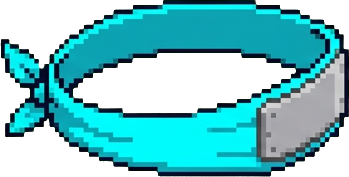
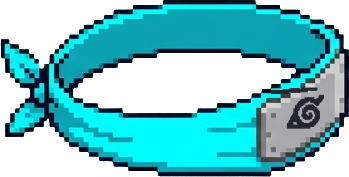
Custom fighter: posable arms, livelier body, sheathed katana, leaf headband
Arms are cut from each torso along the armpit gap (CustomArms) instead of
fixed rectangles that sliced the chest, and posed in two segments
(shoulder and elbow): a straight punch with the other fist on guard,
forearms raised to block, arms swinging while walking and swept back in
the dash. The back arm stays behind the body unless striking or guarding.
Idle breathes, walking takes a longer stride.

The katana is worn sheathed (new Figma art): scabbard behind the legs, hilt
over the belt; it is drawn only to strike and to guard. The headband plate
gets the leaf symbol back, the scarf ends are smaller, the scouter is
smaller, and the default accessory colour is red instead of the default
gi orange.

Claude-Session: https://claude.ai/code/session_01CQ57skbFi4YN6mTgDad7BN

Changed region(s): [[0.7736, 0.4802, 0.9456, 0.7345]]

diff --git a/game/sprites/CustomArt.ts b/game/sprites/CustomArt.ts
@@ -2,8 +2,9 @@
 import type Phaser from 'phaser';
 import type { CharacterData } from '../types';
 import { buildCustomPortrait } from './CustomPortrait';
-import { ACCESSORY_TAILS, CUSTOM_DASH_FRAMES, CUSTOM_FRAME, headbandRect, RING, SCARF_TAIL_SWING, scarfCollarRect, tailState } from './CustomArtLayout';
+import { ACCESSORY_TAILS, CUSTOM_DASH_FRAMES, CUSTOM_FRAME, headbandRect, RING, SCARF_TAIL_SWING, scarfCollarRect, SHEATH_GUARD, tailState } from './CustomArtLayout';
 import { genkiTorsoRect } from './GenkiTorsoLayout';
+import { BACK_ARM, BODY, FRONT_ARM, splitArms } from './CustomArms';
 import { GI_SEAM, trouserClothBottom, fittedFootwear } from './CustomSeams';
 
 const urls = import.meta.glob<string>('../assets/custom/*.png', { eager: true, query: '?url', import: 'default' });
@@ -186,6 +187,7 @@ export function composeCustomArt(scene: Phaser.Scene, texture: string, data: Non
   const accessory = accessoryId === 'none' ? null : tint(scene, 'accessory-' + accessoryId,
     accessoryId === 'cape' || accessoryId === 'scarf' ? { primary: data.color_acc_1 ?? data.gi2 } :
     accessoryId === 'headband' ? { secondary: data.color_acc_1 ?? data.gi2 } : {});
+  const sheath = accessoryId === 'sword' ? tint(scene, 'accessory-sword_sheathed', {}) : null;
   const tailsId = accessoryId === 'scarf' || accessoryId === 'headband' ? accessoryId : null;
   const tails = tailsId ? tint(scene, 'accessory-' + tailsId + '_tails',
     tailsId === 'scarf' ? { primary: data.color_acc_1 ?? data.gi2 } : { secondary: data.color_acc_1 ?? data.gi2 }) : null;
@@ -219,6 +221,19 @@ export function composeCustomArt(scene: Phaser.Scene, texture: string, data: Non
   const neckX=79+(neckWeight?neckSum/neckWeight:torso.width/2)/torso.width*36;
   const portrait = buildCustomPortrait(data,texture,(name,palette)=>tint(scene,name,palette),resolution,neckX);
   const draw = (img: HTMLCanvasElement, x: number, y: number, w: number, h: number) => ctx.drawImage(img, Math.round(x), Math.round(y), w, h);
+  // Posable arms cut along the armpit (null: keep the rectangular fallback).
+  const rig = (() => {
+    const data = torso.getContext('2d')!.getImageData(0, 0, torso.width, torso.height);
+    const split = splitArms(data.data, torso.width, torso.height);
+    if (!split) return null;
+    const layer = (mask: number) => {
+      const c = document.createElement('canvas'); c.width = torso.width; c.height = torso.height;
+      const out = new ImageData(torso.width, torso.height);
+      for (let i = 0; i < split.owner.length; i++) if (split.owner[i] & mask) for (let k = 0; k < 4; k++) out.data[i * 4 + k] = data.data[i * 4 + k];
+      c.getContext('2d')!.putImageData(out, 0, 0); return c;
+    };
+    return { ...split, body: layer(BODY), arms: [layer(BACK_ARM), layer(FRONT_ARM)] };
+  })();
   for (let f = 0; f < CUSTOM_FRAME.count; f++) {
     ctx.save(); ctx.translate(f % 4 * 192, Math.floor(f / 4) * 128);
     const walk = f >= 4 && f <= 7;
@@ -226,8 +241,11 @@ export function composeCustomArt(scene: Phaser.Scene, texture: string, data: Non
     const phase = walk ? [0,1,0,-1][f-4] : dash ? [1,-1,1][f-CUSTOM_DASH_FRAMES[0]] : 0;
     const punch = f === 8, kick = f === 9, defend = f === 10, charge = f === 11;
     const genki=f===12;
-    const bob = walk ? Math.abs(phase) : 0;
-    const headBob = f < 4 ? 0 : bob;
+    // Idle breathes: chest and head rise together, the feet stay planted.
+    const breath = f < 4 ? [0,.5,1,.5][f] : 0;
+    const legBob = walk ? Math.abs(phase) : 0;
+    const bob = legBob + breath;
+    const headBob = f < 4 ? breath : bob;
     const lean = punch ? 3 : kick ? -2 : defend ? -2 : dash ? 4 : 0;
     // The dash leans the whole body forward over the feet.
     if (dash) { ctx.translate(97, 126); ctx.rotate(.12); ctx.translate(-97, -126); }
@@ -268,40 +286,35 @@ export function composeCustomArt(scene: Phaser.Scene, texture: string, data: Non
         ctx.restore();
       }
     };
-    const drawSword=()=>{
-      if(!accessory || accessoryId!=='sword' || genki)return;
-      const armAngle=charge?-.18:defend?2.25:punch?-1.55:0;
-      const handX=106+lean+Math.cos(armAngle)*6-Math.sin(armAngle)*22;
-      const handY=77+bob+Math.sin(armAngle)*6+Math.cos(armAngle)*22;
+    // Katana: sheathed at the hip; drawn only to strike and to guard. The scabbard
+    // is worn behind the body, the hilt rests forward over the belt.
+    const swordDrawn = punch || defend;
+    const drawSheath=(part:'scabbard'|'hilt')=>{
+      if(!sheath || genki || (part==='hilt' && swordDrawn))return;
+      const w=46,h=w*sheath.height/sheath.width,gx=w*SHEATH_GUARD;
+      ctx.save();ctx.translate(101+lean,93+bob);ctx.rotate(-.4);
+      ctx.beginPath();
+      if(part==='scabbard')ctx.rect(-gx-1,-h,gx+1,h*2);else ctx.rect(-1.5,-h,w-gx+2,h*2);
+      ctx.clip();ctx.drawImage(sheath,-gx,-h/2,w,h);ctx.restore();
+    };
+    const drawSword=(fist:readonly [number,number],angle:number)=>{
+      if(!accessory || accessoryId!=='sword' || !swordDrawn)return;
       const swordWidth=43;
       const swordHeight=swordWidth*accessory.height/accessory.width;
-      // Anchor the image at the part of the handle the palm actually covers;
-      // the old 15% point left the guard and blade visibly past the fist.
+      // Anchor the image at the part of the handle the palm actually covers.
       const gripX=swordWidth*(70/accessory.width),gripY=swordHeight*.5;
-      // The blade follows the arm, not the forearm's rotation: a punch thrusts it
-      // forward and the guard raises it beside the head instead of across the face.
-      // At rest the katana is held in a ready guard, pointing up and forward
-      // instead of lying flat across the legs.
-      const bladeAngle=punch?0:defend?-1.9:-.6;
-      ctx.save();ctx.translate(handX,handY);ctx.rotate(bladeAngle);
+      ctx.save();ctx.translate(fist[0],fist[1]);ctx.rotate(angle);
       ctx.drawImage(accessory,-gripX,-gripY,swordWidth,swordHeight);
       ctx.restore();
     };
-    const drawSwordHand=()=>{
-      if(!accessory || accessoryId!=='sword' || genki)return;
-      // Idle frames use the full painted torso, so restore the wrist and palm
-      // over the katana to make the grip read as part of the hand.
-      const sx=torso.width*.78,sy=torso.height*.82;
-      const sw=torso.width-sx,sh=torso.height-sy;
-      ctx.drawImage(torso,sx,sy,sw,sh,79+sx/tw*36,66+sy/th*36,sw/tw*36,sh/th*36);
-    };
+    drawSheath('scabbard');
     // Legs and footwear share hip pivots, so walking and kicking cannot leave detached boots.
     for (let side = 0; side < 2; side++) {
       ctx.save();
       const pivotX = side === 0 ? 91 : 102;
       const waistShift=torsoId==='goku'?1.5:0;
-      ctx.translate(pivotX+waistShift+lean, hipY+bob);
-      ctx.rotate(side === 1 && kick ? -1.2 : phase * (side ? -0.14 : 0.14));
+      ctx.translate(pivotX+waistShift+lean, hipY+legBob);
+      ctx.rotate(side === 1 && kick ? -1.2 : phase * (dash ? .42 : .3) * (side ? -1 : 1));
       const sx = side * legs.width / 2;
       // Keep the full trouser width, but tuck its hem inside the boot shaft.
       const legW=giTrousers&&torsoId==='goku'?18:17,legX=97+(side-1)*legW;
@@ -333,34 +346,70 @@ export function composeCustomArt(scene: Phaser.Scene, texture: string, data: Non
         rect.x+lean,rect.y+bob,rect.width,rect.height*sourceBottom/raisedTorso.height);
       drawHead();
       drawScarf();
-    } else if(!punch && !defend && !charge) {
+    } else if(!punch && !defend && !charge && !walk && !dash) {
       // Keep shoulders, arms and belt joined in relaxed poses; preserve source proportions.
       draw(torso,79+lean,66+bob,36,36);
-      drawSword();
+      drawSheath('hilt');
       drawHead();
       drawScarf();
-      drawSwordHand();
     } else {
-    // Keep the neck/collar and shoulder bridge intact while the lower arms rotate.
+    // Two-segment arms (shoulder and elbow). Angles turn each segment from its
+    // painted rest pose: 0 hangs down, negative swings forward.
+    // [front upper, front forearm, back upper, back forearm]
+    const arms = punch ? [-1.5,-1.58,.35,-1.0] : defend ? [-.8,-2.75,-.6,-2.6]
+      : charge ? [-.25,-.1,.25,.1] : dash ? [.45,.75,.6,.9]
+      : [-.35*phase,-.35*phase-.25,.35*phase,.35*phase-.25];
+    let fist:readonly [number,number]=[0,0];
+    if (rig) {
+      const kx=36/tw, ky=36/th, ox=79+lean, oy=66+bob;
+      const at=(p:readonly number[])=>[ox+p[0]*kx, oy+p[1]*ky] as const;
+      const turn=(p:readonly number[],c:readonly number[],a:number)=>[c[0]+(p[0]-c[0])*Math.cos(a)-(p[1]-c[1])*Math.sin(a), c[1]+(p[0]-c[0])*Math.sin(a)+(p[1]-c[1])*Math.cos(a)] as const;
+      const drawArm=(side:number)=>{
+        const upper=arms[side?0:2], fore=arms[side?1:3], img=rig.arms[side];
+        const S=at(rig.shoulder[side]), E0=at(rig.elbow[side]), H0=at(rig.hand[side]), E1=turn(E0,S,upper);
+        const row=rig.elbowRow[side];
+        // Upper arm: rows above the elbow, turned about the shoulder.
+        ctx.save();ctx.translate(S[0],S[1]);ctx.rotate(upper);ctx.translate(-S[0],-S[1]);
+        ctx.drawImage(img,0,0,tw,row+2,ox,oy,36,(row+2)*ky);ctx.restore();
+        // Forearm: rows below it, turned about the moved elbow.
+        ctx.save();ctx.translate(E1[0],E1[1]);ctx.rotate(fore);ctx.translate(-E0[0],-E0[1]);
+        ctx.drawImage(img,0,row-2,tw,th-row+2,ox,oy+(row-2)*ky,36,(th-row+2)*ky);ctx.restore();
+        if(side){const H=turn(H0,E0,fore);fist=[H[0]+E1[0]-E0[0],H[1]+E1[1]-E0[1]];}
+      };
+      // The back arm passes behind the body unless it is raised to strike or guard.
+      const backInFront = punch || defend;
+      if(!backInFront)drawArm(0);
+      draw(rig.body,ox,oy,36,36);
+      drawSheath('hilt');
+      drawHead();
+      drawScarf();
+      if(backInFront)drawArm(0);
+      drawArm(1);
+    } else {
+    // Fallback for torsos whose arms cannot be separated: rectangular arm crops.
     ctx.drawImage(torso, 0, 0, tw, th*.30, 79+lean,66+bob,36,11);
     ctx.drawImage(torso, tw*.25, th*.30, tw*.5, th*.70, 88+lean,77+bob,18,25);
+    drawSheath('hilt');
     drawHead();
     drawScarf();
-    drawSword();
-    for (let side=0;side<2;side++) {
-      const x = side ? 106 : 87;
-      ctx.save(); ctx.translate(x + lean, 76 + bob);
-      ctx.rotate(charge ? (side ? -.18 : .18) : defend ? (side ? 2.25 : -2.25) : punch && side ? -1.55 : phase*(side ? 0.1 : -0.1));
-      // Discard the inner coat hem caught by the rectangular arm crop.
-      ctx.beginPath();
-      const armLeft=side?0:-9,armHeight=27;
-      const armPoint=(x:number,y:number)=>[armLeft+(side?x:9-x),y] as const;
-      ctx.moveTo(...armPoint(0,-1));
-      for(const point of [[9,-1],[9,armHeight],[0,armHeight],[0,armHeight-3],[2.5,armHeight-7],[2.5,12],[0,6]])ctx.lineTo(...armPoint(point[0],point[1]));
-      ctx.closePath();ctx.clip();
-      ctx.drawImage(torso, side ? tw*.75 : 0, th*.25, tw*.25, th*.75, side ? 0 : -9, -1, 9, 27);
-      ctx.restore();
+    const ELBOW=13, ARM_W=9, ARM_H=27;
+    for (const side of [0,1]) {
+      const upper=arms[side?0:2], fore=arms[side?1:3];
+      const sx=(side ? 106 : 87)+lean, sy=76+bob, left=side?0:-ARM_W, cx=left+ARM_W/2;
+      const ex=sx+Math.cos(upper)*cx-Math.sin(upper)*ELBOW, ey=sy+Math.sin(upper)*cx+Math.cos(upper)*ELBOW;
+      const segment=(x:number,y:number,angle:number,pivotX:number,from:number,to:number)=>{
+        ctx.save();ctx.translate(x,y);ctx.rotate(angle);
+        ctx.beginPath();ctx.rect(left-pivotX-1,from?-1.5:-1,ARM_W+2,to-from+1.5);ctx.clip();
+        ctx.drawImage(torso, side ? tw*.75 : 0, th*.25, tw*.25, th*.75, left-pivotX, -1-from, ARM_W, ARM_H);
+        ctx.restore();
+      };
+      segment(sx,sy,upper,0,0,ELBOW+1.5);
+      segment(ex,ey,fore,cx,ELBOW-1.5,ARM_H);
+      if(side){const r=ARM_H-ELBOW-3;fist=[ex-Math.sin(fore)*r,ey+Math.cos(fore)*r];}
     }
+    }
+    // A thrust follows the forearm; the guard raises the blade beside the head.
+    drawSword(fist, punch ? arms[1]+Math.PI/2 : -1.75);
     }
     ctx.restore();
   }

diff --git a/game/sprites/CustomArms.ts b/game/sprites/CustomArms.ts
@@ -1,0 +1,88 @@
+/** Separate the painted arms from a custom torso so they can be posed.
+ *
+ * Each arm is split from the body along the transparent gap under the armpit,
+ * row by row, instead of a fixed rectangle: rectangles cut through the chest
+ * and sleeves. Above the armpit the shoulder stays in BOTH layers, so a raised
+ * or swung arm never leaves a hole or a square shoulder in the body.
+ */
+export const BODY = 4, BACK_ARM = 1, FRONT_ARM = 2;
+
+export interface ArmRig {
+  /** Per pixel bit mask: BODY, BACK_ARM, FRONT_ARM (a shoulder belongs to the body and an arm). */
+  owner: Uint8Array;
+  /** Shoulder pivot, elbow and hand centre, in torso pixels; [back, front]. */
+  shoulder: [number, number][]; elbow: [number, number][]; hand: [number, number][];
+  /** First row (in torso pixels) that belongs to each forearm. */
+  elbowRow: number[];
+}
+
+export function splitArms(pixels: Uint8ClampedArray, width: number, height: number, alphaMin = 100): ArmRig | null {
+  const opaque = (x: number, y: number) => pixels[(y * width + x) * 4 + 3] > alphaMin;
+  const cut = [new Float64Array(height).fill(NaN), new Float64Array(height).fill(NaN)];
+  for (let y = 0; y < height; y++) {
+    const runs: [number, number][] = [];
+    for (let x = 0; x < width; x++) {
+      if (!opaque(x, y)) continue;
+      const start = x; while (x + 1 < width && opaque(x + 1, y)) x++;
+      // Tiny gaps are antialiasing inside one shape, not the armpit.
+      const last = runs[runs.length - 1];
+      if (last && start - last[1] <= 2) last[1] = x; else runs.push([start, x]);
+    }
+    // An armpit is never in the top third: a gap there is a collar or a cape.
+    if (runs.length < 2 || y < height * .3) continue;
+    if (runs[0][1] < width * .45) cut[0][y] = (runs[0][1] + runs[1][0]) / 2;
+    const a = runs[runs.length - 2], b = runs[runs.length - 1];
+    if (b[0] > width * .55) cut[1][y] = (a[1] + b[0]) / 2;
+  }
+  const owner = new Uint8Array(width * height);
+  for (let i = 0; i < owner.length; i++) if (pixels[i * 4 + 3] > alphaMin) owner[i] = BODY;
+  const rig: ArmRig = { owner, shoulder: [], elbow: [], hand: [], elbowRow: [] };
+  for (const side of [0, 1]) {
+    const c = cut[side], rows: number[] = [];
+    for (let y = 0; y < height; y++) if (!Number.isNaN(c[y])) rows.push(y);
+    if (rows.length < height * .15) return null;
+    const first = rows[0], last = rows[rows.length - 1];
+    // Fill short interruptions (fist touching the hip, sleeve folds) linearly.
+    let prev = first;
+    for (const y of rows) { for (let k = prev + 1; k < y; k++) c[k] = c[prev] + (c[y] - c[prev]) * (k - prev) / (y - prev); prev = y; }
+    // The shoulder joint sits a little above the armpit, never at the collar.
+    const top = Math.round(Math.min(Math.max(first - height * .22, height * .12), height * .3));
+    for (let y = top; y < height; y++) {
+      const edge = y < first ? c[first] : y > last ? c[last] : c[y];
+      for (let x = 0; x < width; x++) {
+        if (!opaque(x, y) || (side ? x <= edge : x >= edge)) continue;
+        const i = y * width + x;
+        owner[i] = (y < first ? BODY : 0) | (side ? FRONT_ARM : BACK_ARM);
+      }
+    }
+    // Joints from the arm's own pixels.
+    const centre = (y0: number, y1: number): [number, number] => {
+      let sx = 0, sy = 0, n = 0;
+      for (let y = Math.max(0, y0); y <= Math.min(height - 1, y1); y++) {
+        const edge = y < first ? c[first] : y > last ? c[last] : c[y];
+        for (let x = 0; x < width; x++) if (opaque(x, y) && (side ? x > edge : x < edge)) { sx += x; sy += y; n++; }
+      }
+      return n ? [sx / n, sy / n] : [side ? width * .85 : width * .15, (y0 + y1) / 2];
+    };
+    let bottom = top;
+    for (let y = height - 1; y >= top; y--) {
+      const edge = y > last ? c[last] : c[Math.max(y, first)];
+      let found = false;
+      for (let x = 0; x < width; x++) if (opaque(x, y) && (side ? x > edge : x < edge)) { found = true; break; }
+      if (found) { bottom = y; break; }
+    }
+    const shoulderY = top + height * .06, span = bottom - shoulderY;
+    const elbowRow = Math.round(shoulderY + span * .47);
+    rig.shoulder[side] = [centre(top, top + Math.round(height * .1))[0], shoulderY];
+    rig.elbow[side] = [centre(elbowRow - 2, elbowRow + 2)[0], elbowRow];
+    rig.hand[side] = centre(bottom - Math.round(span * .12), bottom);
+    rig.elbowRow[side] = elbowRow;
+    // A cape or a coat hiding the arm leaves only a hand: not a usable arm.
+    if (span < height * .45) return null;
+  }
+  // A cape hiding one arm (Saitama) leaves a sliver: keep the painted pose then.
+  const count = [0, 0];
+  for (const o of owner) { if (o & BACK_ARM) count[0]++; if (o & FRONT_ARM) count[1]++; }
+  if (Math.min(...count) < Math.max(...count) * .5) return null;
+  return rig;
+}

diff --git a/game/sprites/CustomArtLayout.ts b/game/sprites/CustomArtLayout.ts
@@ -15,7 +15,7 @@ export function customFrameRegion(index: number, resolution: number) {
 
 export const HEAD_ANCHORS = {
   neck: [98, 70], eyes: [103, 61],
-  hat: [86.5, 44.5, 24, 14.8], band: [84.6, 53, 22, 7], visor: [94, 58, 12, 7],
+  hat: [86.5, 44.5, 24, 14.8], band: [84.6, 53, 22, 7], visor: [96, 57.5, 9.5, 5.6],
 } as const;
 
 /** Under a hat the chosen hairstyle stays; only hair above the crown's base is hidden. */
@@ -32,8 +32,8 @@ export function scouterRect(head: string): readonly [number, number, number, num
 export function headbandRect(head: string): readonly [number, number, number, number] {
   // Flattened from the painted top-down view so it reads as a band around the
   // head, its near edge just above the brows.
-  const width = 20, height = width * 177 / 349 * .62;
-  const [right, bottom] = head === 'spiderman' ? [109, 54] : head === 'saitama' || head === 'jotaro' ? [110, 56.5] : [110.5, 57];
+  const width = 18, height = width * 177 / 349 * .5;
+  const [right, bottom] = head === 'spiderman' ? [107, 54] : head === 'saitama' || head === 'jotaro' ? [108, 56.5] : [108.5, 57];
   return [right - width, bottom - height, width, height];
 }
 
@@ -52,7 +52,7 @@ export function scarfCollarRect(neckX: number): readonly [number, number, number
 /** Tail strips hold 4 states (hanging, swaying, in the wind, streaming back);
  * every cell has its knot on `anchor`, and `length` is the drawn cell height. */
 export const ACCESSORY_TAILS = {
-  scarf: { anchor: [.845, .023], length: 22 },
+  scarf: { anchor: [.845, .023], length: 19 },
   headband: { anchor: [.873, .088], length: 11 },
 } as const;
 
@@ -60,7 +60,7 @@ export const ACCESSORY_TAILS = {
  * or striking, and stream straight back during the dash. */
 /** Extra swing (radians, positive = toward the back) so the scarf's ends show
  * behind the shoulder instead of disappearing behind the torso. */
-export const SCARF_TAIL_SWING = [.75, .55, .15, 0] as const;
+export const SCARF_TAIL_SWING = [.65, .5, .15, 0] as const;
 
 export function tailState(frame: number): 0 | 1 | 2 | 3 {
   if (frame < 4) return frame % 2 ? 1 : 0;
@@ -69,3 +69,6 @@ export function tailState(frame: number): 0 | 1 | 2 | 3 {
   if (frame >= CUSTOM_DASH_FRAMES[0]) return 3;
   return 2;
 }
+
+/** Where the guard sits along accessory-sword_sheathed.png (scabbard left, hilt right). */
+export const SHEATH_GUARD = .707;

diff --git a/game/creator/CreatorState.ts b/game/creator/CreatorState.ts
@@ -30,7 +30,7 @@ export class CreatorState {
     feet_2: 1,
     head_1: 0,
     head_2: 1,
-    acc_1: 0,
+    acc_1: 2, // red: the default gi is orange, so the default orange made accessories vanish
   };
 
   public style_idx = {
